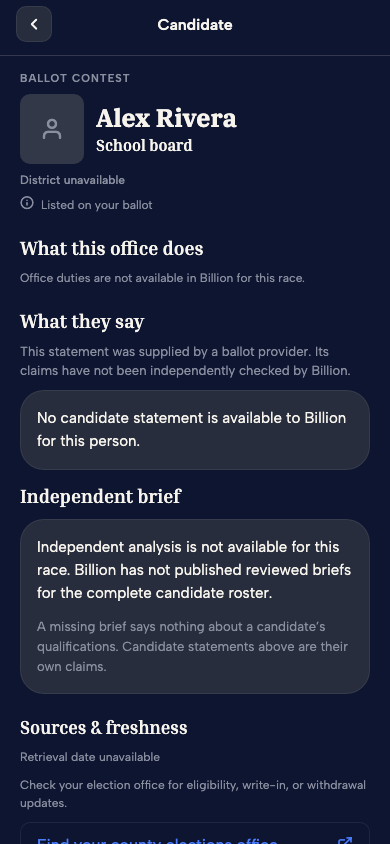
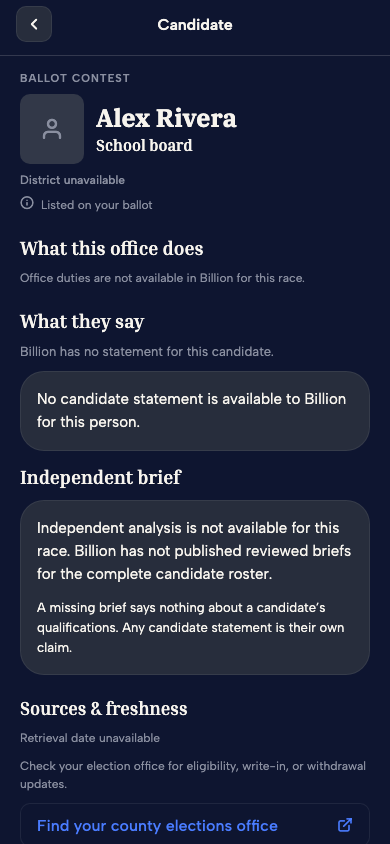
Address independent review findings in candidate publication gate

Changed region(s): [[0.0308, 0.4005, 0.9538, 1.0], [0.8, 0.8934, 0.9231, 1.0]]

diff --git a/packages/api/src/lib/candidate-brief-publication.test.ts b/packages/api/src/lib/candidate-brief-publication.test.ts
@@ -7,6 +7,7 @@ import type { PublicationContext } from "./candidate-brief-publication";
 import {
   briefDigest,
   briefIdentityKey,
+  evidenceHashKey,
   publishableRace,
 } from "./candidate-brief-publication";
 
@@ -78,7 +79,13 @@ const briefs = [fixture(), fixture("challenger")];
 function context(): PublicationContext {
   return {
     policy: { approved: true, version: "proposal-v1" },
-    roster: { verified: true, candidateIds: ["incumbent", "challenger"] },
+    roster: {
+      verified: true,
+      candidateIds: ["incumbent", "challenger"],
+      contestId: "fixture-race",
+      electionDate: "2026-11-03",
+      jurisdiction: "fixture:ca",
+    },
     reviews: briefs.map((b) => ({
       candidateId: b.identity.candidateId,
       revisionDigest: briefDigest(b),
@@ -86,7 +93,9 @@ function context(): PublicationContext {
       reviewedAt: "2026-10-02T00:00:00Z",
       policyVersion: "proposal-v1",
     })),
-    currentHashes: { record: "a".repeat(64) },
+    currentHashes: {
+      [evidenceHashKey(required(briefs[0]).identity, "record")]: "a".repeat(64),
+    },
     withdrawnRevisionIds: [],
     now: "2026-10-02T12:00:00Z",
   };
@@ -103,9 +112,11 @@ void test("policy, source refresh and withdrawal fail closed", () => {
   c.policy.approved = false;
   assert.equal(publishableRace(briefs, c).status, "policy_pending");
   c.policy.approved = true;
-  c.currentHashes.record = "b".repeat(64);
+  c.currentHashes[evidenceHashKey(required(briefs[0]).identity, "record")] =
+    "b".repeat(64);
   assert.equal(publishableRace(briefs, c).status, "stale");
-  c.currentHashes.record = "a".repeat(64);
+  c.currentHashes[evidenceHashKey(required(briefs[0]).identity, "record")] =
+    "a".repeat(64);
   c.withdrawnRevisionIds = [required(briefs[0]).revisionId];
   assert.equal(publishableRace(briefs, c).status, "withdrawn");
 });
@@ -147,4 +158,32 @@ void test("correction identifies prior revision; old approval does not approve s
   b.revisionId = "00000000-0000-4000-8000-000000000003";
   assert.equal(candidateBriefSchema.safeParse(b).success, true);
   assert.equal(publishableRace(corrected, context()).status, "review_pending");
+});
+
+void test("verified roster must belong to the same race, election and jurisdiction", () => {
+  for (const field of ["contestId", "electionDate", "jurisdiction"] as const) {
+    const c = context();
+    c.roster[field] = "unrelated";
+    assert.equal(publishableRace(briefs, c).status, "incomplete_race");
+  }
+});
+
+void test("empty and whitespace-padded self-review cannot approve", () => {
+  for (const reviewerId of ["", "   ", " writer "]) {
+    const c = context();
+    required(c.reviews[0]).reviewerId = reviewerId;
+    assert.equal(publishableRace(briefs, c).status, "review_pending");
+  }
+});
+
+void test("same local evidence ID across candidates retains separate current hashes", () => {
+  const race = structuredClone(briefs);
+  const second = required(race[1]);
+  second.evidence = [
+    { ...required(required(race[0]).evidence[0]), contentHash: "b".repeat(64) },
+  ];
+  const c = context();
+  c.currentHashes[evidenceHashKey(second.identity, "record")] = "b".repeat(64);
+  required(c.reviews[1]).revisionDigest = briefDigest(second);
+  assert.equal(publishableRace(race, c).status, "published");
 });

diff --git a/packages/api/src/lib/candidate-brief-publication.ts b/packages/api/src/lib/candidate-brief-publication.ts
@@ -11,6 +11,12 @@ export function briefIdentityKey(identity: CandidateBriefIdentity): string {
     identity.candidateId,
   ]);
 }
+export function evidenceHashKey(
+  identity: CandidateBriefIdentity,
+  evidenceId: string,
+): string {
+  return JSON.stringify([briefIdentityKey(identity), evidenceId]);
+}
 export function briefDigest(value: unknown): string {
   // Validated schema fixes object-key order; the approval binds every claim and source.
   return createHash("sha256")
@@ -19,7 +25,13 @@ export function briefDigest(value: unknown): string {
 }
 export interface PublicationContext {
   policy: { approved: boolean; version: string };
-  roster: { verified: boolean; candidateIds: string[] };
+  roster: {
+    verified: boolean;
+    candidateIds: string[];
+    contestId: string;
+    electionDate: string;
+    jurisdiction: string;
+  };
   reviews: {
     candidateId: string;
     revisionDigest: string;
@@ -51,6 +63,9 @@ export function publishableRace(
   if (
     !first ||
     !context.roster.verified ||
+    context.roster.contestId !== first.identity.contestId ||
+    context.roster.electionDate !== first.identity.electionDate ||
+    context.roster.jurisdiction !== first.identity.jurisdiction ||
     keys.size !== briefs.length ||
     new Set(context.roster.candidateIds).size !==
       context.roster.candidateIds.length ||
@@ -70,7 +85,8 @@ export function publishableRace(
     if (
       brief.evidence.some(
         (e) =>
-          context.currentHashes[e.id] !== e.contentHash ||
+          context.currentHashes[evidenceHashKey(brief.identity, e.id)] !==
+            e.contentHash ||
           Date.parse(e.retrievedAt) > Date.parse(context.now),
       )
     )
@@ -82,8 +98,8 @@ export function publishableRace(
         r.policyVersion === context.policy.version,
     );
     if (
-      !review ||
-      review.reviewerId === brief.authorId ||
+      !review?.reviewerId.trim() ||
+      review.reviewerId.trim() === brief.authorId ||
       !Number.isFinite(Date.parse(review.reviewedAt)) ||
       Date.parse(review.reviewedAt) < Date.parse(brief.createdAt) ||
       Date.parse(review.reviewedAt) > Date.parse(context.now)

diff --git a/apps/expo/src/components/ballot-evidence/CandidateBrief.tsx b/apps/expo/src/components/ballot-evidence/CandidateBrief.tsx
@@ -54,7 +54,7 @@ export function CandidateIndependentBrief({
           </Text>
           <Text
             style={{
-              color: P.quiet,
+              color: P.inkOnNight,
               fontFamily: fontBody.regular,
               fontSize: 13,
               lineHeight: 20,
@@ -66,7 +66,7 @@ export function CandidateIndependentBrief({
         </Card>
       ) : (
         <>
-          <Text style={{ color: P.quiet }}>
+          <Text style={{ color: P.inkOnNight }}>
             {brief.authorship.kind === "generated"
               ? "AI-assisted Billion explanation · "
               : "Billion explanation · "}
@@ -92,7 +92,10 @@ export function CandidateIndependentBrief({
               {section.claims.map((claim) => (
                 <View key={claim.id} style={{ gap: sp[2] }}>
                   <Text
-                    style={{ color: P.quiet, fontFamily: fontBody.semibold }}
+                    style={{
+                      color: P.inkOnNight,
+                      fontFamily: fontBody.semibold,
+                    }}
                   >
                     {kinds[claim.kind]}
                   </Text>
@@ -122,7 +125,7 @@ export function CandidateIndependentBrief({
               {section.missingEvidence ? (
                 <Text
                   style={{
-                    color: P.quiet,
+                    color: P.inkOnNight,
                     fontFamily: fontBody.regular,
                     fontSize: 14,
                     lineHeight: 22,

diff --git a/packages/api/src/lib/candidate-brief-revisions.ts b/packages/api/src/lib/candidate-brief-revisions.ts
@@ -54,9 +54,11 @@ export async function recordCandidateBriefReview(input: {
     .where(eq(CandidateBriefRevision.id, input.revisionId));
   if (!revision) throw new Error("Unknown revision");
   const brief = candidateBriefSchema.parse(revision.document);
-  if (input.action === "approve" && input.actorId === brief.authorId)
+  if (input.action === "approve" && input.actorId.trim() === brief.authorId)
     throw new Error("Author cannot approve their own revision");
   const id = randomUUID();
-  await db.insert(CandidateBriefReviewEvent).values({ ...input, id });
+  await db
+    .insert(CandidateBriefReviewEvent)
+    .values({ ...input, actorId: input.actorId.trim(), id });
   return { eventId: id, revisionDigest: revision.revisionDigest };
 }

diff --git a/artifacts/candidate-421/README.md b/artifacts/candidate-421/README.md
@@ -1,0 +1,20 @@
+# Candidate brief UI evidence
+
+Captured from the actual running Expo web development app on October 2, 2026,
+with a 390×844 viewport. Alex Rivera and the school-board route data are synthetic
+and contain no candidate statement, office duties or reviewed analysis. The
+completed-onboarding browser state was set only to reach the candidate screen.
+No live candidate data, provider calls or database writes were used for capture.
+
+- `sparse-viewport.png`: sparse candidate screen and unpublished brief state.
+- `sparse.png`: same running sparse screen.
+- `large-text.png`: browser 150% zoom, scrolled to the independent brief disclaimer
+  and election-office action. This is not native Dynamic Type verification.
+
+Independent gpt-6-astra screenshot-first review found that the screen accurately
+conveys missing priorities/record, unavailable independent analysis and the fact
+that missing coverage says nothing about qualifications. Fixed findings: missing
+statement copy incorrectly implying a supplied statement, and low-contrast small
+text on the disclaimer card. Re-review found no clipping, overlap or outstanding
+visual findings in these captures. Real-reader testing and native accessibility
+remain required before live analysis rollout.
